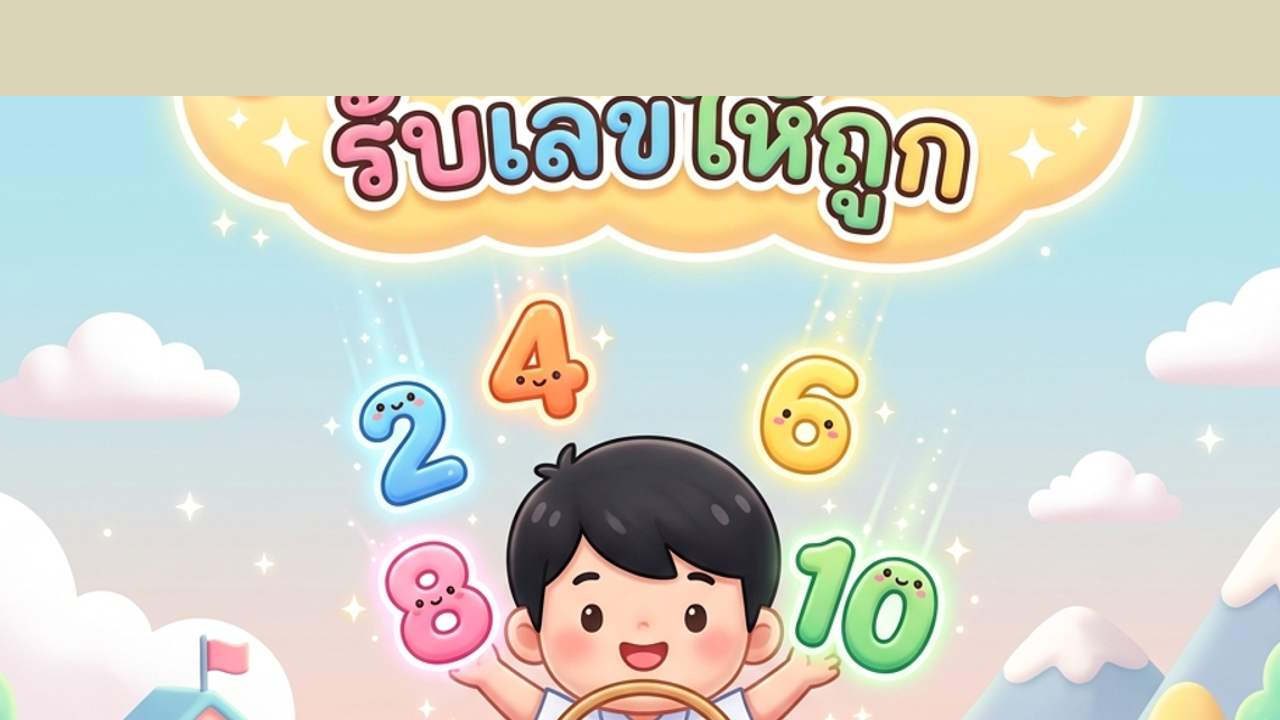
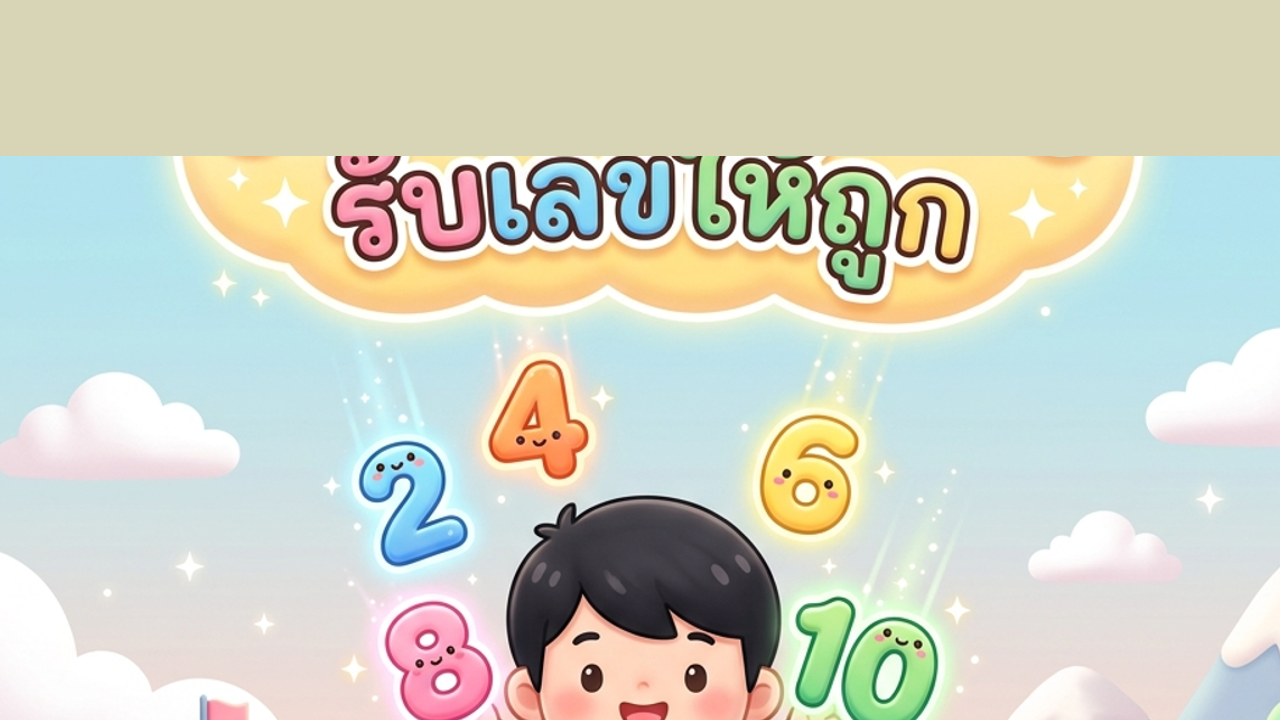
fix(games): cover v3 cache bust + stronger safe-top reframe
Bump thumbnail ?v=3, sync cover-full, GamesTab uses GameCoverThumb, 120px safe zone for AR/racing covers.

diff --git a/src/components/admin/educational-hub/GamesTab.tsx b/src/components/admin/educational-hub/GamesTab.tsx
@@ -39,6 +39,7 @@ import {
     Select, SelectContent, SelectItem, SelectTrigger, SelectValue,
 } from '@/components/ui/select';
 import { PersonAvatar } from '@/components/shared/PersonAvatar';
+import { GameCoverThumb } from '@/components/educational-hub/GameCoverThumb';
 import { ImageUpload } from '@/components/admin/shared/ImageUpload';
 import { VideoUpload } from '@/components/admin/shared/VideoUpload';
 import { ConfirmDialog } from '@/components/admin/shared/ConfirmDialog';
@@ -814,10 +815,10 @@ export const GamesTab = () => {
                                             <tr key={item.id} className="border-b border-border last:border-0 hover:bg-muted/20">
                                                 <td className="px-4 py-3">
                                                     {item.thumbnail_url ? (
-                                                        <img
+                                                        <GameCoverThumb
                                                             src={item.thumbnail_url}
                                                             alt=""
-                                                            className="h-12 w-16 object-contain bg-muted rounded border border-border"
+                                                            className="h-12 w-16 rounded border border-border shrink-0"
                                                         />
                                                     ) : (
                                                         <div className="h-12 w-16 bg-muted rounded border border-border" />
